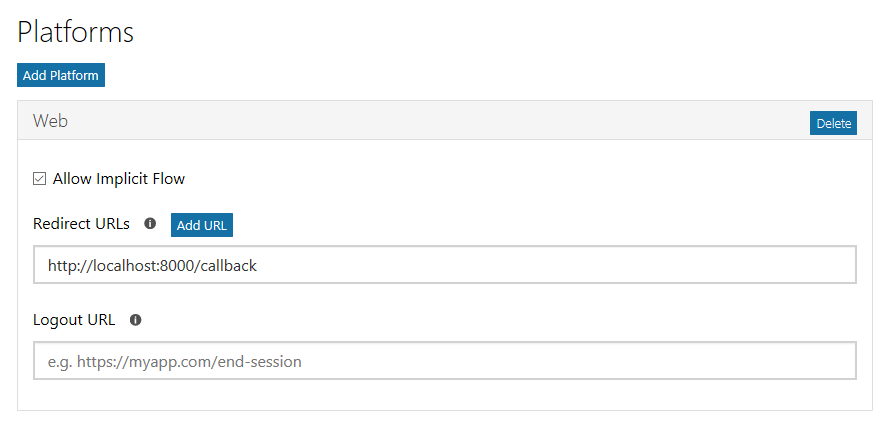
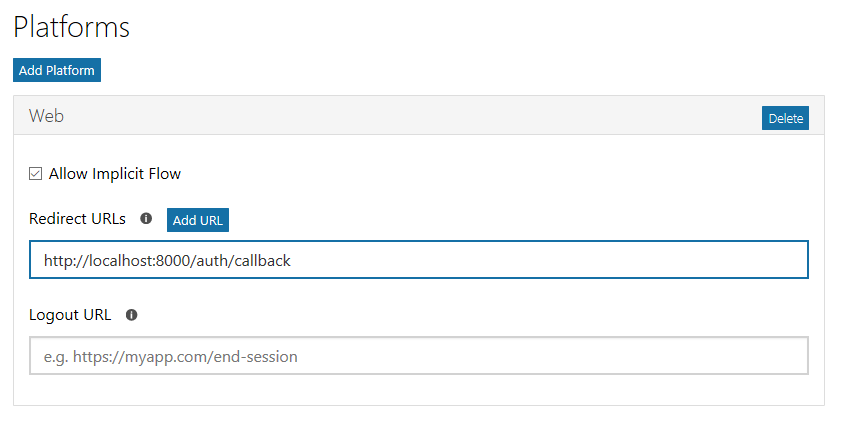
Update redirect URL

diff --git a/Demos/02-arp-app/README.md b/Demos/02-arp-app/README.md
@@ -32,7 +32,7 @@ In this demo, you will create a new Azure AD web application registration using 
 
         ![Screenshot creating a platform for the app](/Images/arp-create-app-04.png)
 
-    1. In the **Web** platform box, enter the URL `http://localhost:8000/callback` for the **Redirect URLs**.
+    1. In the **Web** platform box, enter the URL `http://localhost:8000/auth/callback` for the **Redirect URLs**.
 
         ![Screenshot of the newly added Web platform for the application](/Images/arp-create-app-05.png)
 
